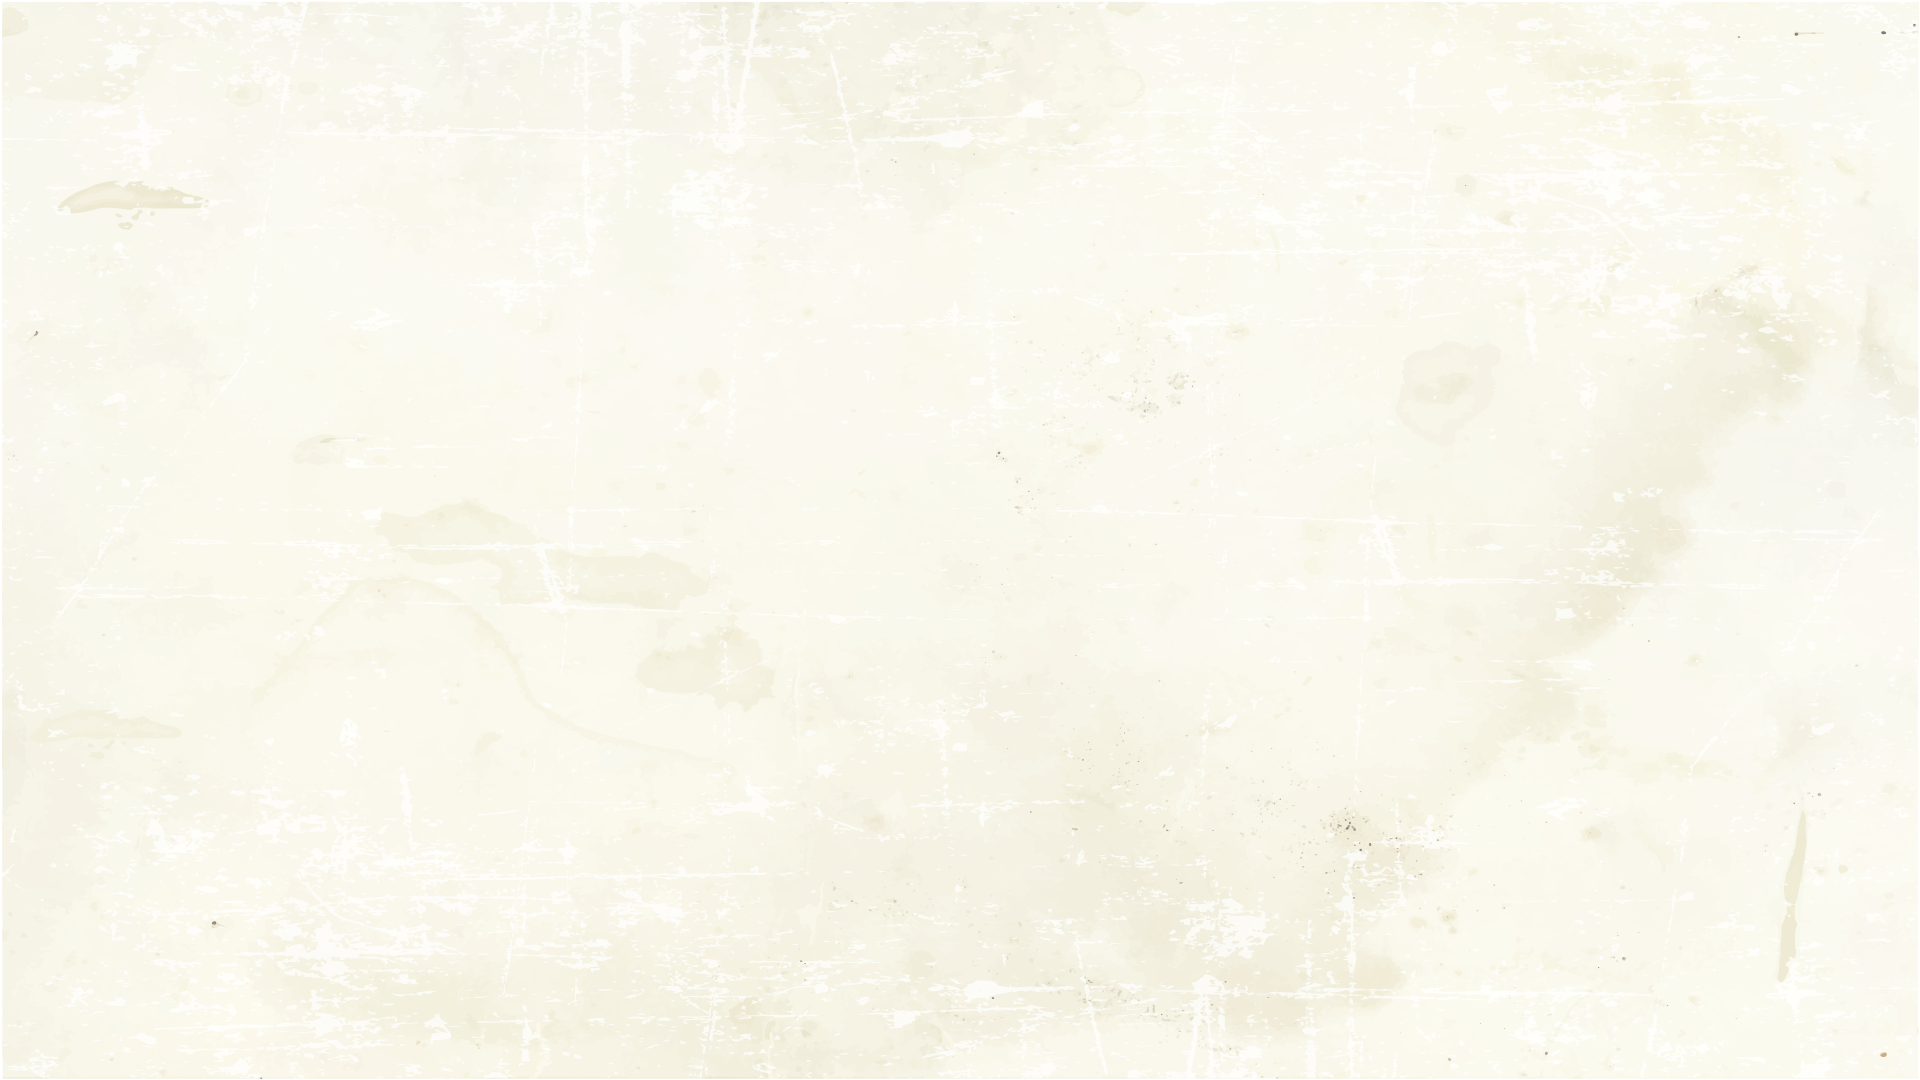
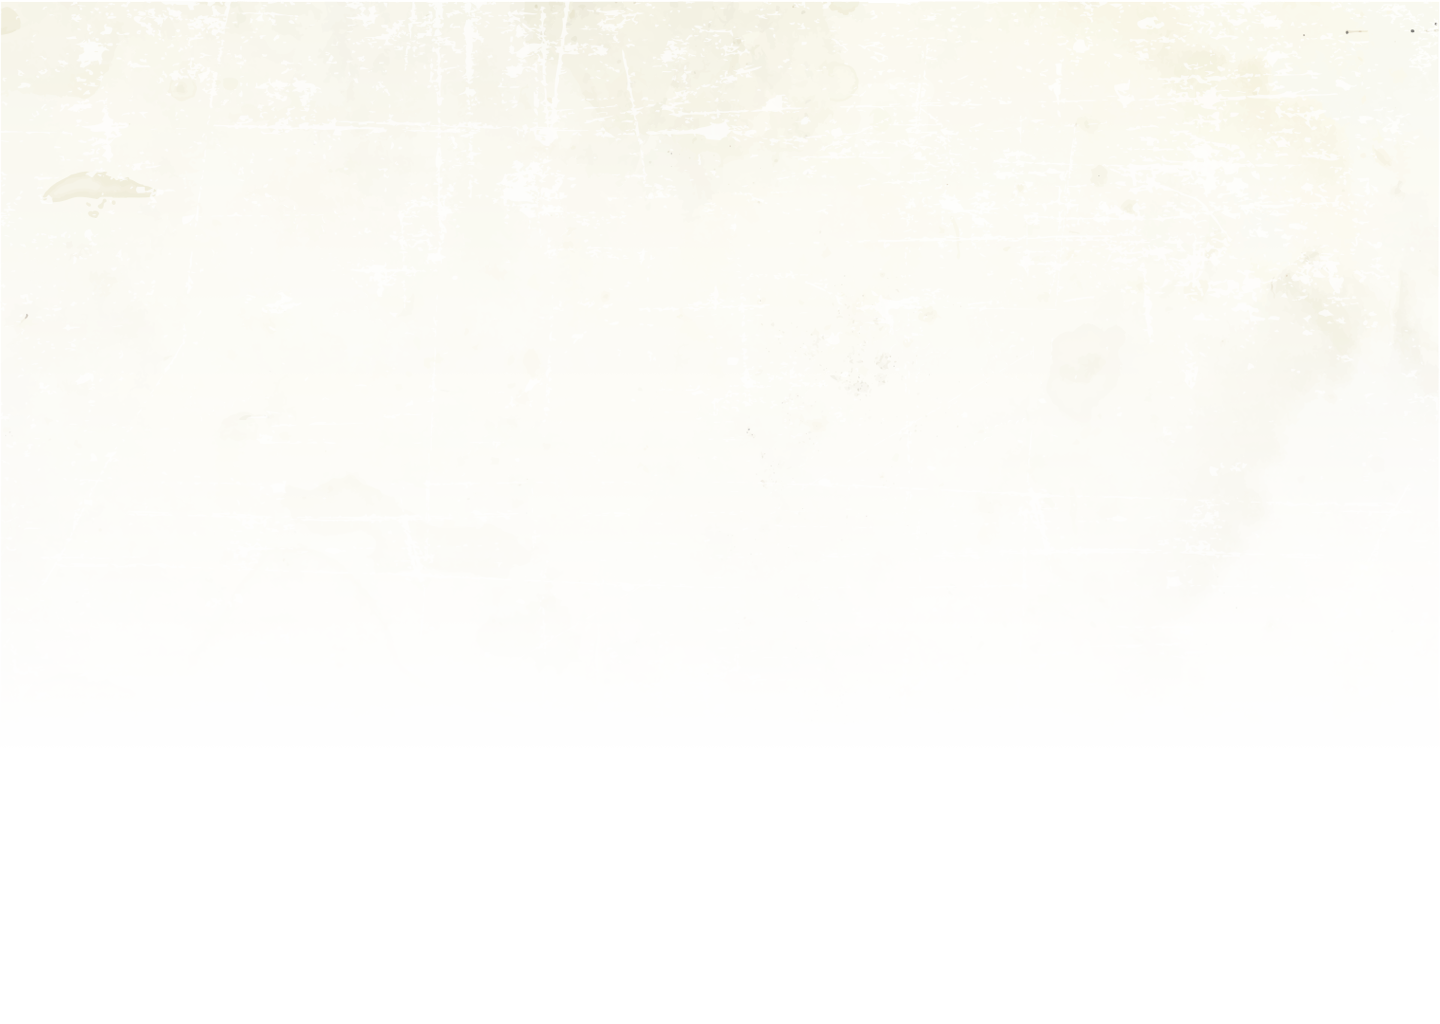
:lipstick: moves bg image
puts bg in home component

diff --git a/src/pages/Home.tsx b/src/pages/Home.tsx
@@ -2,15 +2,19 @@ import React from 'react';
 import styled from 'styled-components';
 import { Flex, Text } from 'theme-ui';
 
+import BgEffects from '../components/bgEffects';
+
 const HomeContainer = styled(Flex)`
-  position: absolute;
+  position: relative;
   z-index: 1;
   width: 100%;
-  height: 100%;
+  height: 100vh;
   display: flex;
   align-items: flex-start;
   justify-content: center;
   flex-direction: column;
+  box-sizing: border-box;
+  overflow: hidden;
 
   .b {
     font-weight: 400;
@@ -22,9 +26,10 @@ const SubHeadingContainer = styled(Flex)`
   justify-content: space-evenly;
 `;
 
-const HomePage = () => {
+const Home = () => {
   return (
     <HomeContainer>
+      <BgEffects />
       <Text
         mb={['-1rem']}
         variant="heading"
@@ -42,4 +47,4 @@ const HomePage = () => {
   );
 };
 
-export default HomePage;
+export default Home;

diff --git a/src/pages/index.tsx b/src/pages/index.tsx
@@ -3,8 +3,9 @@ import styled from 'styled-components';
 import { Image } from 'theme-ui';
 
 import Layout from '../components/Layout';
-import BgEffects from '../components/bgEffects';
-import HomePage from './Home';
+import Home from './Home';
+import About from './About';
+import Work from './Work';
 import Menu from '../components/Menu';
 import { Hamburger } from '../assets';
 
@@ -24,13 +25,14 @@ const IndexPage = () => {
   return (
     <Layout>
       <HamburgerMenu src={Hamburger} alt="menu" m={[4]} sx={{
-        position: 'absolute', top: 0, left: 0, zIndex: 2, cursor: 'pointer',
+        position: 'fixed', top: 0, left: 0, zIndex: 2, cursor: 'pointer',
       }}
       onClick={() => setMenu(true)}
       />
 
-      <BgEffects />
-      <HomePage />
+      <Home />
+      <About />
+      <Work />
 
       {menu && <Menu setMenu={setMenu} />
       }

diff --git a/src/pages/About.tsx b/src/pages/About.tsx
@@ -1,0 +1,24 @@
+import React from 'react';
+import { Flex, Text } from 'theme-ui';
+
+const About = () => {
+  return (
+    <Flex sx={{
+      position: 'relative',
+      width: '100%',
+      height: '100vh',
+      backgroundColor: 'white',
+      alignItems: 'center',
+      justifyContent: 'center',
+      zIndex: 3,
+      boxSizing: 'border-box',
+      overflow: 'hidden',
+    }}>
+      <Flex>
+        <Text variant="title">about</Text>
+      </Flex>
+    </Flex>
+  );
+};
+
+export default About;

diff --git a/src/pages/Work.tsx b/src/pages/Work.tsx
@@ -1,0 +1,24 @@
+import React from 'react';
+import { Flex, Text } from 'theme-ui';
+
+const Work = () => {
+  return (
+    <Flex sx={{
+      position: 'relative',
+      width: '100%',
+      height: '100vh',
+      backgroundColor: 'white',
+      alignItems: 'center',
+      justifyContent: 'center',
+      zIndex: 3,
+      boxSizing: 'border-box',
+      overflow: 'hidden',
+    }}>
+      <Flex>
+        <Text variant="title">work</Text>
+      </Flex>
+    </Flex>
+  );
+};
+
+export default Work;

diff --git a/src/components/Menu.tsx b/src/components/Menu.tsx
@@ -12,8 +12,10 @@ const Menu = (props: MenuProps) => {
   return (
     <Flex sx={{
       position: 'absolute',
+      top: 0,
+      left: 0,
       width: '100%',
-      height: '100%',
+      height: '100vh',
       backgroundColor: 'white',
       alignItems: 'flex-end',
       justifyContent: 'center',

diff --git a/src/theme.ts b/src/theme.ts
@@ -43,6 +43,11 @@ export default {
       fontSize: [3, null, 4, null],
       textAlign: 'right',
     },
+    title: {
+      fontFamily: 'subheading',
+      fontWeight: 'body',
+      fontSize: [3, null, 5, 6],
+    },
   },
   buttons: {
     primary: {

diff --git a/src/components/bgEffects/index.tsx b/src/components/bgEffects/index.tsx
@@ -13,7 +13,7 @@ const BgWrapper = styled(Box)`
   background-size: cover;
   box-sizing: border-box;
   overflow: hidden;
-  z-index: 0;
+  z-index: -1;
 `;
 
 const BgLayer = styled(Image)`
